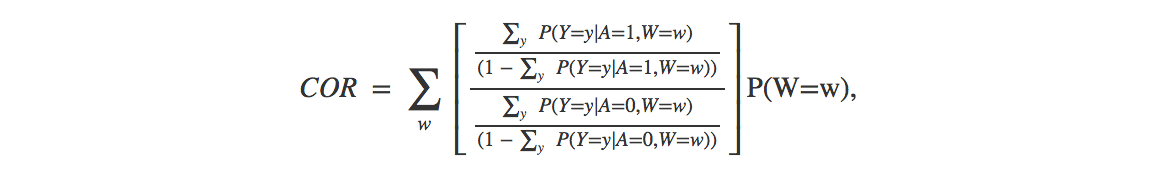
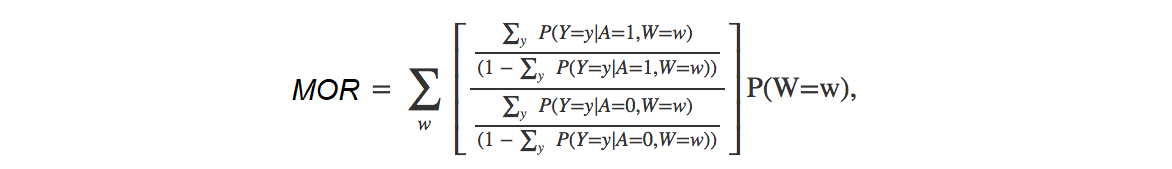
31.7.18

Changed region(s): [[0.2457, 0.4438, 0.3072, 0.5917]]

diff --git a/README.md b/README.md
@@ -1,36 +1,59 @@
 ### Title  
-Effect modification and collapsibility when estimating the effect of interventions: A Monte Carlo Simulation comparing classical multivariable regression adjustment versus the G-Formula based on a cancer epidemiology illustration  
+Effect modification and collapsibility when estimating the effect of public health interventions: A Monte Carlo Simulation comparing classical multivariable regression adjustment versus the G-Formula based on a cancer epidemiology illustration  
 
 ### Authors
 Miguel Angel Luque-Fernandez, Daniel Redondo Sanchez and Michael Schomaker   
   
 ### Supplement to the AJPH's editorial letter
-The **American Journal of Public Health** series "Evaluating Public Health Interventions" is offering excellent practical guidance to researchers in public health.  In the 8<sup>th</sup> part of the series, a valuable introduction to effect estimation of time-invariant public health interventions was given.[1] The authors of this article suggested that in terms of bias and efficiency there is no advantage of using modern causal inference methods over classical multivariable modeling.[1] However, this statement is not always true. Most importantly, both **“effect modification”** and **“collabsability”** are important concepts when assessing the validity of using regression for causal effect estimation. Suppose we are interested in the effect of combined radio- and chemotherapy versus chemotherapy only on one year mortality in patients diagnosed with colorectal cancer. A clinician may ask: how would the risk of death have been had everyone received dual therapy compared to if everyone had received monotherapy? The causal marginal odds ratio (MOR) answers this question: each individual has a pair of potential outcomes: the outcome they would have received had they been exposed (A=1), denoted Y(1), and the outcome had they been unexposed, Y(0). The MOR is defined as [P(Y(1)=1)/(1-P(Y(1)=1))] / [P(Y(0)=1)/(1-P(Y(0)=1))]. A common approach would be to use logistic regression to model the odds of mortality given the intervention and adjusted for confounders (W) such as clinical stage, co-morbidities, and others. Note that this regression will estimate the conditional odds ratio (COR), which is [P(Y=1|A=1,W)/(1-P(Y=1|A=1,W))] / [P(Y=1|A=0,W)/(1-P(Y=1|A=0,W))]. MOR and COR are typically not identical. First, if there is effect modification, e.g. if the effect of dual therapy is different between patients with no co-morbidities compared to those having hypertension, then logistic regression will not provide a marginal effect estimate, but only one conditional on the respective morbidity. Second, the odds ratio is non-collapsible which means that the MOR is not necessarily equal to the stratum-specific OR, i.e. the COR, even when W is only related to the outcome, and not the intervention, and thus not a confounder.[2,3] 
 
-To identify the MOR, classical epidemiologic methods, such as standard multivariable logistic regression models where the treatment is included as a covariate in the analysis, require the assumption that the effect measure of the treatment of interest is constant across the levels of confounders included in the model.[4] However, in observational studies evaluating the effect of public health interventions, this is often not the case (i.e. the effect of the intervention might differ across individuals with different susceptibilities or characteristics. The effect is assumed to be heterogeneous at a population level). In 1986, a seminal paper [5] demonstrated that under untestable causal assumptions (conditional exchangeability, positivity, consistency, and non-interference), a consistent estimate of the MOR can be obtained using the G-formula [5] (a generalization of standardization with respect to the confounder distribution) as follows: 
+The **American Journal of Public Health** series "Evaluating Public Health Interventions" is offering excellent practical guidance to researchers in public health.  In the 8<sup>th</sup> part of the series, a valuable introduction to effect estimation of time-invariant public health interventions was given.[1] The authors of this article suggested that in terms of bias and efficiency there is no advantage of using modern causal inference methods over classical multivariable modeling.[1] However, this statement is not always true. Most importantly, both **“effect modification”** and **“collabsability”** are important concepts when assessing the validity of using regression for causal effect estimation.  
 
-![Figure Link](https://github.com/migariane/hetmor/blob/master/MOR.png)  
-where P(W=w) refers to the marginal probability of w.  
- 
-G-computation,[6] based on the estimation of the components in the G-formula, allows for a treatment effect that may vary across the levels of the confounders. 
+**Cancer epidemology example**
+To discuss these concepts we are looking at an example from cancer epidemiology. In this example, we are interested in the effect of dual treatment therapy (radio- and chemotherapy, compared to single therapy (chemotherapy only) on the probability of one year survival among colorectal cancer patients. We know that there exist confounders which affect both treatment assigment and the outcome, namely clinical stage, socio-economic status, comorbidities, and age. Evidence shows that older patients with comorbidities have lower probability of be offered more aggressive treatments and therefore they usually get less effective curative options. Also, colorectal cancer patients from lower socioeconomic status have higher probability of presenting an adavanced clinical stage at diagnosis thus they usually do not get treatment with curative intent being offered just palliative treatments.  
 
-To prove the above statements, we develop a Monte Carlo simulation describing the above population-based cancer epidemiology scenario and provide the R code for replication in this GitHub repository. ([R script for replication](https://github.com/migariane/hetmor/blob/master/MonteCarloSimulation.r)). Briefly, we want to estimate one-year mortality risk of death (odds ratio) (Y) for cancer patients treated with monotherapy (only chemotherapy; A=0) versus dual therapy (treatment with radiotherapy and chemotherapy; A=1) while controlling for possible confounders (W). It is a relevant research question that answered at a population level may have an important public health impact for cancer patients. In order to be able to consistently estimate the MOR, the data must satisfy the following assumptions: i) Cancer treatment is independent of the potential mortality outcomes (Y(0),Y(1)) after conditioning on W. This assumption is often referred to as “conditional exchangeability” and one cannot test it using the observed data. It implies that (within the strata of W) the mortality risk under the potential treatment A=1, i.e. P(Y(1)=1|A=1,W) equals the one under treatment A=0, i.e. P(Y(1)=1|A=0,W). In other words: the risk of death for those treated would have been the same as for those untreated if untreated subjects had received, contrary to the fact, the treatment. This is equivalent to assuming that all confounders have been measured. ii) We also assume that within strata of W every patient had a nonzero probability of receiving either of the two treatment conditions, i.e. 0 <P(A=1|W)<1 (positivity). iii) We assume consistency, which states that we observe the potential outcome corresponding with the observed treatment, i.e. for any individual, Y = AY(1) + (1 – A)Y(0). Also, iv) in defining an individual’s counterfactual outcome as only a function of their own treatment, we assume non-interference, meaning that the counterfactual outcome of one subject was not influenced by the treatment of any other. Thus, if we believe these assumptions to hold and the sample size to be sufficient, we may interpret our estimate of the MOR approximately as the marginal causal riks of one-year mortality for cancer patients treated with monotherapy versus dual therapy. 
+**Our structural assumptions in the cancer epidemilogy example**
+The assumptions from above can be encoded in a directed acyclic graph (DAG) (Figure 1). Here, each circle represents a variable and an arrow from A to B (A -> B) means that we assume that A causes B. The combination of these structural assumptions and appropriate statistical methods allow us to estimate the causal effect of dual therapy versus monoterapy on colerectal cancer patients' survival.  
 
-**Data generation process**  
-We generated data, denoted as the set of i.i.d variables O = (W = (W1, W2, W3, W4), A, Y), based on the directed acyclic graph illustrated in Figure 1.   
 **Figure 1** Directed Acyclic Graph    
 
 ![Figure Link](https://github.com/migariane/hetmor/blob/master/Figure1.png)  
 
-Briefly, we used the R-package simcausal [7] to generate  O = (W= (w1, w2, w3, w4), A, Y). w1: age, was generated as Bernoulli variable with probability 0.6 (advanced age); w2: socioeconomic status, w3: comorbidities, and w3: cancer stage, were generated as categorical variables based with five, six and four levels, respectively. The treatment variable contrasted the effect of only chemotherapy versus chemotherapy + radiotherapy (A = 0 chemotherapy and A = 1 chemotherapy + radiotherapy). The treatment variable (A), the confounders (W) and the potential outcomes (Y(1), Y(0)) were generated as binary indicators using log-linear models (see Rscript for more details). In the treatment and outcome models, we included an interaction term between treatment with comorbidities (W2) and cancer stage (W4) based on plausible biological mechanisms such as an increased risk of comorbidities among older adults. Then, we generated a sample size of 5000, and run 10.000 simulations for four different scenarios to estimate the MOR. 
+**The question we want to answer**
+A clinician maybe interested in the following:   
+how different would the risk of death have been had everyone received dual therapy compared to if everyone had experienced monotherapy? The causal marginal odds ratio (MOR) answers this question. Each individual has a pair of potential outcomes: the outcome they would have received had they been exposed to dual treatment (A=1), denoted Y(1), and the outcome had they been unexposed, Y(0). The MOR is defined as [P(Y(1)=1)/(1-P(Y(1)=1))]/[P(Y(0)=1)/(1-P(Y(0)=1))]. Statisticians call this a “target quantity”.  
 
-Figure 2 shows the results of a simulation based on the above-described cancer scenario. The setting compares the bias with respect to the MOR for logistic regression versus the G-Formula [6,8] for four different levels of effect modification (EM) (i.e., no effect modification, mild effect modification, effect modification and strong effect modification).  
+A common approach would be to use logistic regression to model the odds of mortality given the intervention, and adjust for the confounders (W) which are clinical stage, co-morbidities, socio-economic status and age. Note that this regression will estimate the conditional odds ratio (COR), which is [P(Y=1|A=1,W)/(1-P(Y=1|A=1,W))] / [P(Y=1|A=0,W)/(1-P(Y=1|A=0,W))].  
+ 
+MOR and COR are typically not identical. First, if there is effect modification, e.g. if the effect of dual therapy is different between patients with no co-morbidities compared to those having hypertension, then logistic regression (possibly including an interaction of treatment with one of the confounders) will not provide a marginal effect estimate, but only one conditional on the respective morbidity. To be more precise: we obtain an odds ratio that is valid for a given group of people, say those with hypertension, but it will not give us a marginal estimate. But we are interested in a marginal estimate because we want to know if dual therapy works in general. Of course, one may be specifically interested in patients with hypertension, but then the OR for this group is again conditional on the other variables, for example for elderly people, from a low socio-economic level, and advanced stage.      
 
-**Figure 2** Absolute bias with respect the marginal causal odds ratio comparing the conditional odds ratio from classical multivariable logistic regression models versus the marginal odds ratio from G-computation based on the G-Formula, n = 5,000 and 10,000 simulation runs.
+Second, the odds ratio is non-collapsible which means that the MOR is not necessarily equal to the stratum-specific OR, i.e. the COR. This statement holds even even when W is only related to the outcome, and not the intervention, and thus not a confounder.[2,3] In fact, it is even possible that the conditional odds ratio shows a benefit of an intervention in every stratum, but no benefit overall, i.e. marginally. This case is known as Simpson’s paradox. We encourage the reader to read the below references. [here reference 2 and 3 plus Judea Pearls new book, the book of why] Please note that while the odds ratio in non-collapsible, other measures of association like the risk-difference and the risk ratios are collapsible. 
+
+**Multivariable regression versus the g-formula**
+
+To identify the MOR, classical epidemiologic methods, such as standard multivariable logistic regression models where the treatment is included as a covariate in the analysis, require the assumption that the effect measure of the treatment of interest is constant across the levels of confounders included in the model.[4] However, in observational studies evaluating the effect of public health interventions, this is often not the case (i.e. the effect of the intervention might differs across individuals with different susceptibilities or characteristics. The effect is assumed to be heterogeneous at population level). This is essentially the first point we made in the paragraph above. The second point says that certain effect measures, like the odds ratio, suffer from non-collapsibility.   
+
+Thus, in summary, as pointed out by Spiegelmann et al [1] it can a be an option to use regression models to adjust for confounding; but we need to assume  no effect modification and we need to choose  a measure that is collapsible, like the **risk difference**, rather than the odds ratio.  
+
+An alternative to using multivariable regression adjustment is the **G-Formula** [5] (a generalization of standardization with respect to the confounder distribution). In 1986, a seminal paper [5] demonstrated that under assumptions (conditional exchangeability, positivity, consistency, and non-interference), a consistent estimate of the MOR can be obtained using the G-formula. Under the assumption that the DAG above (Figure 1) is correct and the other assumptions, we can estimate the MOR using the g-formula as follows:  
+
+![Figure Link](https://github.com/migariane/hetmor/blob/master/MOR.png)  
+where P(W=w) refers to the marginal probability of w. 
+
+This means we are still using a logistic regression model in the first step, but then we standardize the conditional odds ratio with respect to the confounder distribution (W), to obtain a marginal estimate. Furthermore, to identify the MOR, classical epidemiologic methods, such as standard multivariable logistic regression models where the treatment is included as a covariate in the analysis, require the assumption that the effect measure of the treatment of interest is constant across the levels of confounders included in the model.[4] However, in observational studies evaluating the effect of public health interventions, this is often not the case (i.e. the effect of the intervention might differ across individuals with different susceptibilities or characteristics. The effect of the intervention is difficult to be considered as homogeneous at a population level). G-computation,[6] based on the estimation of the components in the G-formula, allows for a treatment effect that may vary across the levels of the confounders.  
+
+**A Monte-Carlo simulation** 
+To prove the above statements, we develop a Monte Carlo simulation describing the above population-based cancer epidemiology scenario and provide the R code for replication in this GitHub repository. ([R script for replication](https://github.com/migariane/hetmor/blob/master/MonteCarloSimulation.r)). Briefly, we want to estimate one-year mortality risk of death (odds ratio) (Y) for cancer patients treated with monotherapy (only chemotherapy; A=0) versus dual therapy (treatment with radiotherapy and chemotherapy; A=1) while controlling for possible confounders (W). It is a relevant research question that answered at a population level may have an important public health implications for cancer patients. In order to be able to consistently estimate the MOR, the data must satisfy the following assumptions: i) Cancer treatment is independent of the potential mortality outcomes (Y(0),Y(1)) after conditioning on W. This assumption is often referred to as “conditional exchangeability” and one cannot test it using the observed data. It implies that (within the strata of W) the mortality risk under the potential treatment A=1, i.e. P(Y(1)=1|A=1,W) equals the one under treatment A=0, i.e. P(Y(1)=1|A=0,W). In other words: the risk of death for those treated would have been the same as for those untreated if untreated subjects had received, contrary to the fact, the treatment. This is equivalent to assuming that all confounders have been measured. ii) We also assume that within strata of W every patient had a nonzero probability of receiving either of the two treatment conditions, i.e. 0 <P(A=1|W)<1 (positivity). iii) We assume consistency, which states that we observe the potential outcome corresponding with the observed treatment, i.e. for any individual, Y = AY(1) + (1 – A)Y(0). Also, iv) in defining an individual’s counterfactual outcome as only a function of their own treatment, we assume non-interference, meaning that the counterfactual outcome of one subject was not influenced by the treatment of any other. Thus, if we believe these assumptions to hold and the sample size to be sufficient, we may interpret our estimate of the MOR approximately as the marginal causal riks of one-year mortality for cancer patients treated with monotherapy versus dual therapy. 
+
+**Data generation process**  
+We used the R-package simcausal [7] to generate data according to the DAG introduced above.  The data are (W= (w1, w2, w3, w4), A, Y) where w1 refers to age, w2 to socieconomic status, w3 to comorbidities, and w4 to cancer stage. The detailed setup can be found HERE ([R script for replication](https://github.com/migariane/hetmor/blob/master/MonteCarloSimulation.r)). In the outcome model, we included an interaction term between treatment A and both comorbidities (W2) and cancer stage (W4), based on the plausible biological mechanism that there is an increased risk of comorbidities among older adults and a different treatment effect for those patients with and without comorbidities and advanced cancer stage. The simulation is based ona sample size of 5000, and 10.000 simulation runs. We estimate the bias with respect to the MOR.   
+
+Figure 2 shows the results of a simulation.       
+
+**Figure 2** Absolute bias with respect the marginal causal odds ratio comparing the conditional odds ratio from classical multivariable logistic regression models versus the marginal odds ratio from G-computation based on the G-Formula, n = 5,000 and 10,000 simulation runs.  
 
 ![Figure Link](https://github.com/migariane/hetmor/blob/master/Figure2.png)  
 
-One can see the bias of logistic regression is more pronounced under EM but persists -due to non-collapsibility- even under no EM. One explanation for a discrepancy between the conditional and marginal odds ratio could be that w is a confounder; this would typically be the argument for adjusting for w requiring that w is associated with both A and Y. However, the conditional odds ratio may differ from the marginal odds ratio **even when w is independent of A**. This numerical artifact is often referred to as non-collapsibility.[2]
+One can see the bias of logistic regression is more pronounced under EM but persists -due to non-collapsability- even under no EM. One explanation for a discrepancy between the conditional and marginal odds ratio could be that w is a confounder; this would typically be the argument for adjusting for w requiring that w is associated with both A and Y. However, the conditional odds ratio may differ from the marginal odds ratio even when **w is independent of A**. This numerical artifact is often referred to as noncollapsibility.[2]
 
 #### Acknowledgements
 MALF is supported by the Spanish National Institute of Health Carlos III Miguel Servet I Investigator Award (CP17/00206)  
